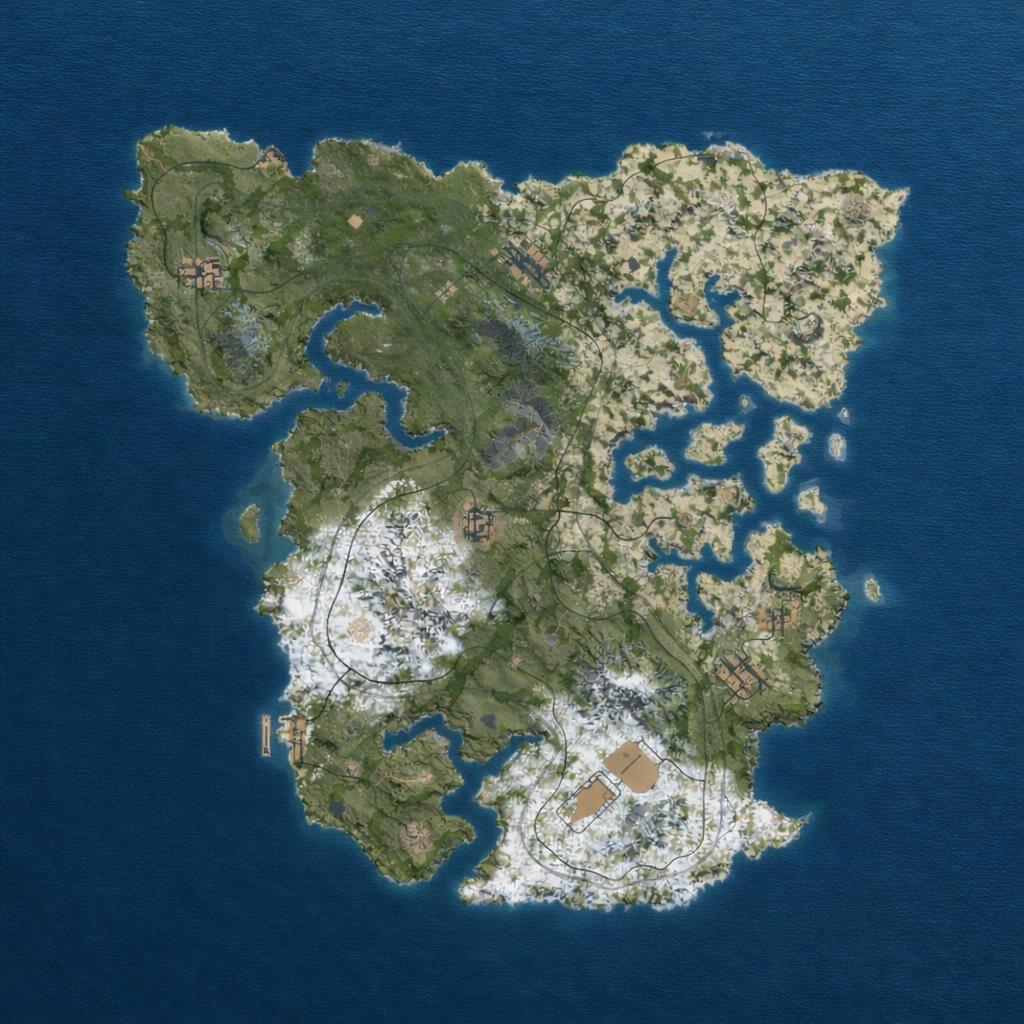
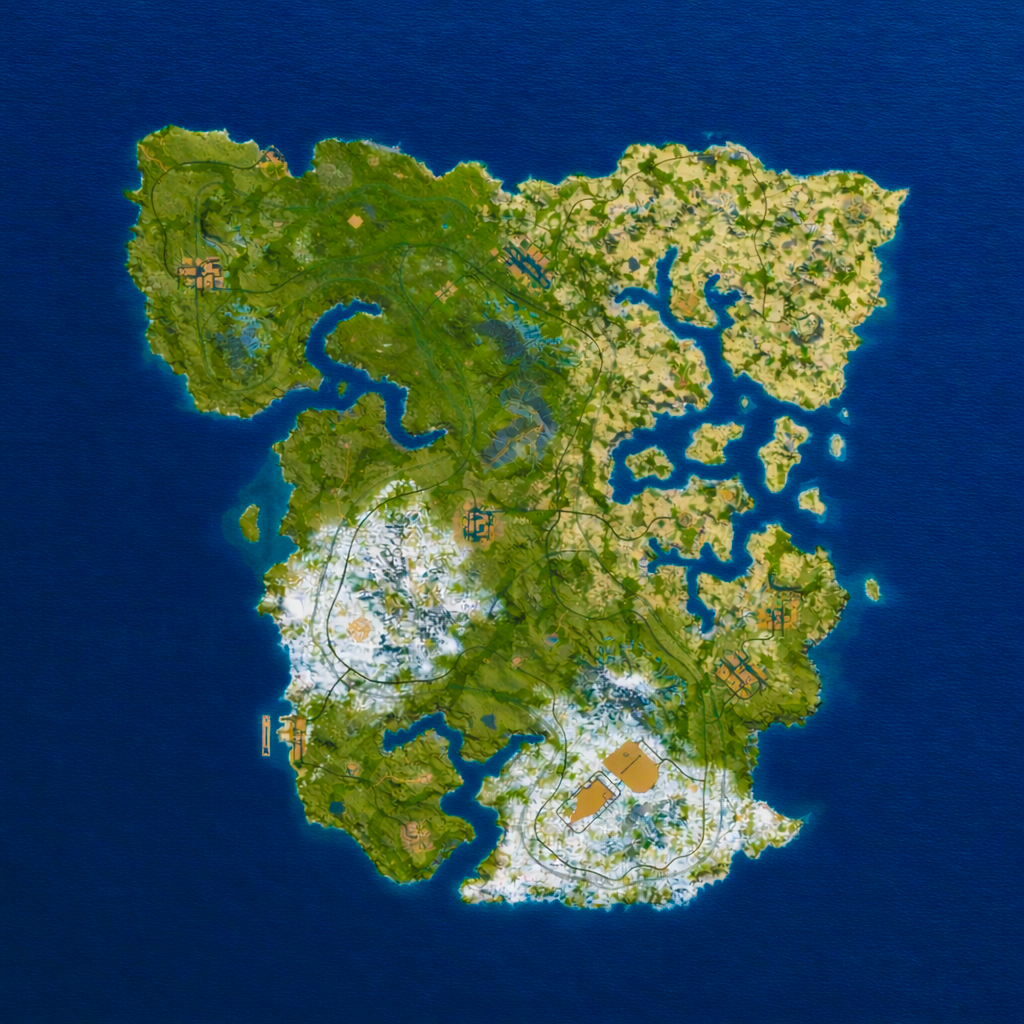
pushh

diff --git a/src/lib/desktopBoardManifest.js b/src/lib/desktopBoardManifest.js
@@ -199,11 +199,11 @@ export const desktopBoardAssetSources = {
   },
   surveyMap: {
     runtime: assetPath("/hero-curated/locked/desktop-board/maps/map-1.png"),
-    source: "new board pack assets/board pack/map 1 v3.png",
+    source: "new board pack assets/board pack/map 1 v4.png",
   },
   routeIndexMap: {
     runtime: assetPath("/hero-curated/locked/desktop-board/maps/map-3.png"),
-    source: "new board pack assets/board pack/map3 v3.png",
+    source: "new board pack assets/board pack/map3 v4.png",
   },
   activationMap: {
     runtime: assetPath("/hero-curated/locked/desktop-board/maps/map-2-v4.png"),
